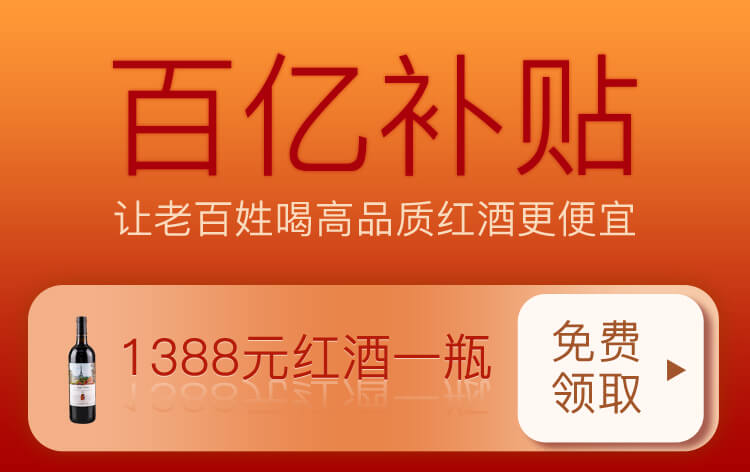
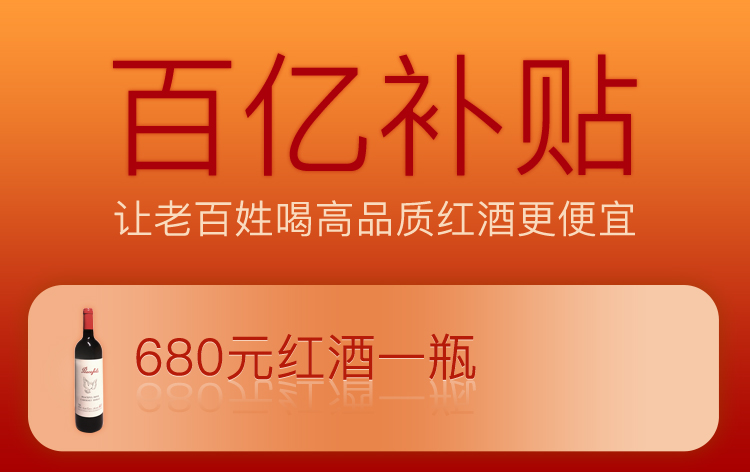
update

diff --git a/src/views/HomePage.vue b/src/views/HomePage.vue
@@ -9,8 +9,12 @@
           <span class="tips">每人限领1瓶</span>
         </van-button>
       </div>
-      <!-- <van-image class="product-image__inner" :src="require('../assets/img/product/long_2.jpg')" /> -->
-      <van-image v-for="item in 13" :key="item" class="product-image__inner" :src="require('../assets/img/product/long_' + (item + 1) + '.jpg')" lazy-load />
+      <van-image class="product-image__inner" :src="require('../assets/img/product/long_2.jpg')" />
+      <div class="product-image__item">
+        <van-image class="product-image__inner" :src="require('../assets/img/product/long_3.jpg')" />
+        <van-button class="product-image__button2" @click="handleShowUserInfoBox" />
+      </div>
+      <van-image v-for="item in 11" :key="item" class="product-image__inner" :src="require('../assets/img/product/long_' + (item + 3) + '.jpg')" lazy-load />
     </div>
 
     <!-- 底部悬浮按钮 -->
@@ -25,7 +29,7 @@
 
 <script>
 import _ from 'lodash'
-import { alipayAuth, wechatAuth, getUrl, setToken, getToken, buildToken } from '@/utils'
+import { alipayAuth, wechatAuth, getUrl, setToken, getToken, buildToken, wxConfig, wxReady, wxError, wxGetLocation } from '@/utils'
 import { getTokenByCode } from '@/api'
 import { mapState, mapActions } from 'vuex'
 import UserInfoBox from '@/components/HomePage/UserInfoBox'
@@ -148,9 +152,50 @@ export default {
       this.saveVisitRecord({ data })
     },
 
+    // longitude: 经度 latitude: 纬度
+    bmapGetLocation (longitude, latitude) {
+      const point = new BMap.Point(longitude, latitude)
+      const convertor = new BMap.Convertor()
+      const geocoder = new BMap.Geocoder()
+      convertor.translate([point], 1, 5, (res) => {
+        // console.log('translate', res)
+        if (res.status === 0) {
+          geocoder.getLocation(res.points[0], result => {
+            console.log('getLocation', result)
+            if (result) {
+
+            }
+          })
+        }
+      })
+    },
+
     // 显示用户信息表单事件
     handleShowUserInfoBox () {
-      this.userInfoBoxShow = true
+      // if (this.clientEvn === 1) {
+      //   wxConfig(appId, timeStamp, nonceStr, paySign)
+      //   wxReady(() => {
+      //     wxGetLocation((res) => {
+      //       console.log(res)
+      //       const { longitude, latitude } = res
+      //       this.getLocation({ longitude, latitude })
+      //     })
+      //   })
+      //   wxError((err) => {
+      //     console.error(err)
+      //   })
+      // }
+      if (this.clientEvn !== 1) {
+        if ('geolocation' in navigator) {
+          navigator.geolocation.getCurrentPosition(res => {
+            const { latitude, longitude } = res.coords
+            this.bmapGetLocation(longitude, latitude)
+          }, (err) => {
+            console.error('geolocation', err)
+          })
+        }
+      }
+      // this.userInfoBoxShow = true
     }
   }
 }
@@ -210,6 +255,27 @@ export default {
             color: #a21a1a;
             line-height: 1;
           }
+        }
+      }
+
+      .product-image__button2 {
+        display: block;
+        position: absolute;
+        right: 31px;
+        bottom: 16px;
+        z-index: 10;
+        width: 202px;
+        height: 163px;
+        border: 0;
+        background-image: url('../assets/img/get-free.png');
+        background-repeat: no-repeat;
+        background-position: center;
+        background-size: 100% 100%;
+        background-color: transparent;
+        overflow: hidden;
+
+        &.van-button:active::before {
+          opacity: 0;
         }
       }
     }
@@ -279,6 +345,13 @@ export default {
               font-size: 22px;
             }
           }
+        }
+
+        .product-image__button2 {
+          right: 31px;
+          bottom: 16px;
+          width: 202px;
+          height: 163px;
         }
       }
     }

diff --git a/src/utils/index.js b/src/utils/index.js
@@ -231,7 +231,7 @@ export function wxConfig (appId, timestamp, nonceStr, signature) {
     timestamp,
     nonceStr,
     signature,
-    jsApiList: ['chooseWXPay'] // 必填，需要使用的JS接口列表
+    jsApiList: ['chooseWXPay', 'getLocation'] // 必填，需要使用的JS接口列表
   })
 }
 
@@ -275,4 +275,21 @@ export function wxChooseWXPay (obj) {
  */
 export function aliTradePay (obj) {
   return ap.tradePay({ obj })
+}
+
+/**
+ * 微信获取地址
+ * @param {*} cb
+ */
+export function wxGetLocation (cb) {
+  wx.getLocation({
+    type: 'wgs84',
+    success: function (res) {
+      cb && cb(res)
+      // var latitude = res.latitude; // 纬度，浮点数，范围为90 ~ -90
+      // var longitude = res.longitude; // 经度，浮点数，范围为180 ~ -180。
+      // var speed = res.speed; // 速度，以米/每秒计
+      // var accuracy = res.accuracy; // 位置精度
+    }
+  })
 }

diff --git a/public/index.html b/public/index.html
@@ -19,5 +19,7 @@
     <!-- <script src="http://res.wx.qq.com/open/js/jweixin-1.6.0.js"></script> -->
     <script src="https://res.wx.qq.com/open/js/jweixin-1.6.0.js"></script>
     <script src="https://gw.alipayobjects.com/as/g/h5-lib/alipayjsapi/3.1.1/alipayjsapi.min.js"></script>
+    <script src="https://static.douin.xyz/static/tencentAdv.js"></script>
+    <script src="https://api.map.baidu.com/api?v=3.0&ak=GL462DI97QdOB9XRUPiMNfMApebreS5e"></script>
   </body>
 </html>

diff --git a/src/utils/axios.js b/src/utils/axios.js
@@ -16,7 +16,11 @@ instance.interceptors.request.use(function (config) {
   // Do something before request is sent
 
   console.log('请求地址:', config.url)
-  console.log('请求参数:', config.data)
+  if (config.params) {
+    console.log('请求参数:', config.params)
+  } else {
+    console.log('请求参数:', config.data)
+  }
 
   // config.transformRequest = [function (data) {
   //   return querystring.stringify(data)

diff --git a/src/store/index.js b/src/store/index.js
@@ -16,6 +16,8 @@ export default new Vuex.Store({
   state: {
     // 本地数据
     localData: {
+      // 百度地图ak
+      ak: 'GL462DI97QdOB9XRUPiMNfMApebreS5e',
       // 微信appId
       wxAppId: 'wx1d4a1163544ae273',
       // 支付宝appId

diff --git a/src/components/HomePage/UserInfoBox.vue b/src/components/HomePage/UserInfoBox.vue
@@ -44,7 +44,7 @@ import ProgressBar from '@/components/HomePage/ProgressBar'
 import SubmitBar from '@/components/HomePage/SubmitBar'
 
 export default {
-  name: 'test',
+  name: 'user-info-box',
   components: {
     userInfoForm,
     ProgressBar,

diff --git a/src/App.vue b/src/App.vue
@@ -21,6 +21,7 @@ export default {
   created () {
     // 存储浏览器环境
     this.updateClientEvn(getClientEvn())
+    // _ai_analysis()
   }
 }
 </script>

diff --git a/src/components/common/AreaPickBox.vue b/src/components/common/AreaPickBox.vue
@@ -14,7 +14,7 @@
 </template>
 
 <script>
-import areaData from '@/utils/Area'
+import areaData from '@/utils/area'
 
 export default {
   name: 'area-pick-box',

diff --git a/.eslintrc.js b/.eslintrc.js
@@ -16,6 +16,7 @@ module.exports = {
   },
   globals: {
     wx: 'readonly',
-    ap: 'readonly'
+    ap: 'readonly',
+    BMap: 'readonly'
   }
 }
